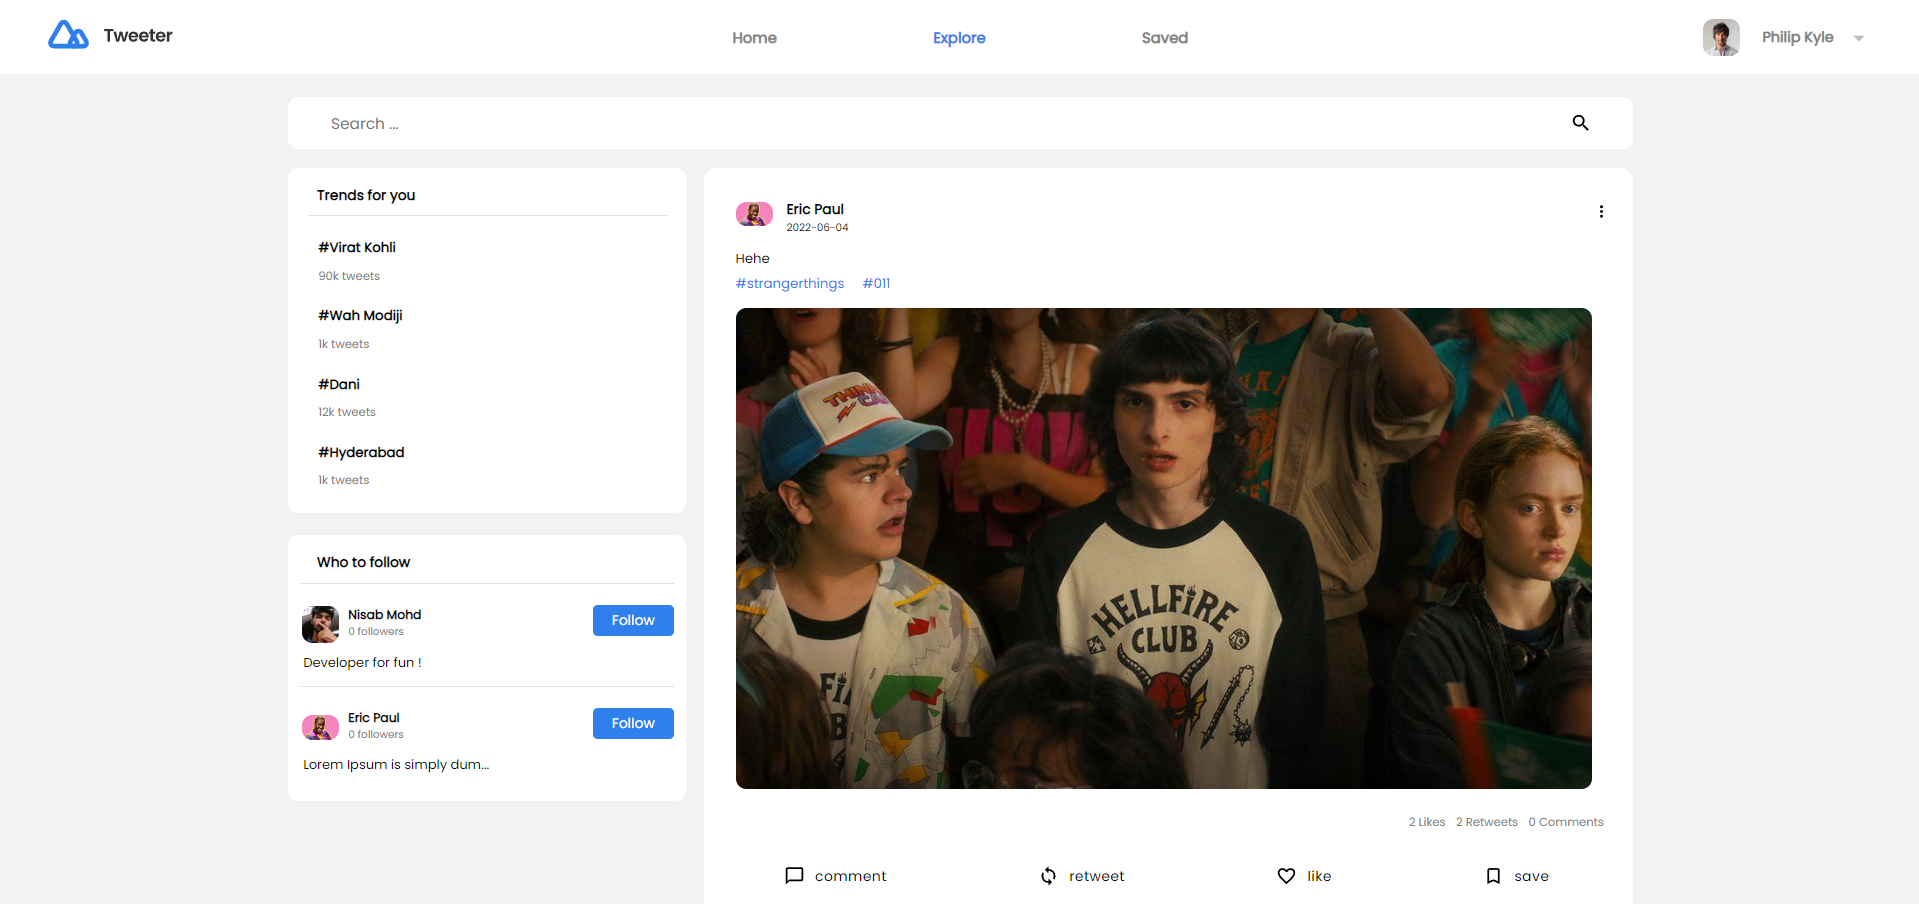
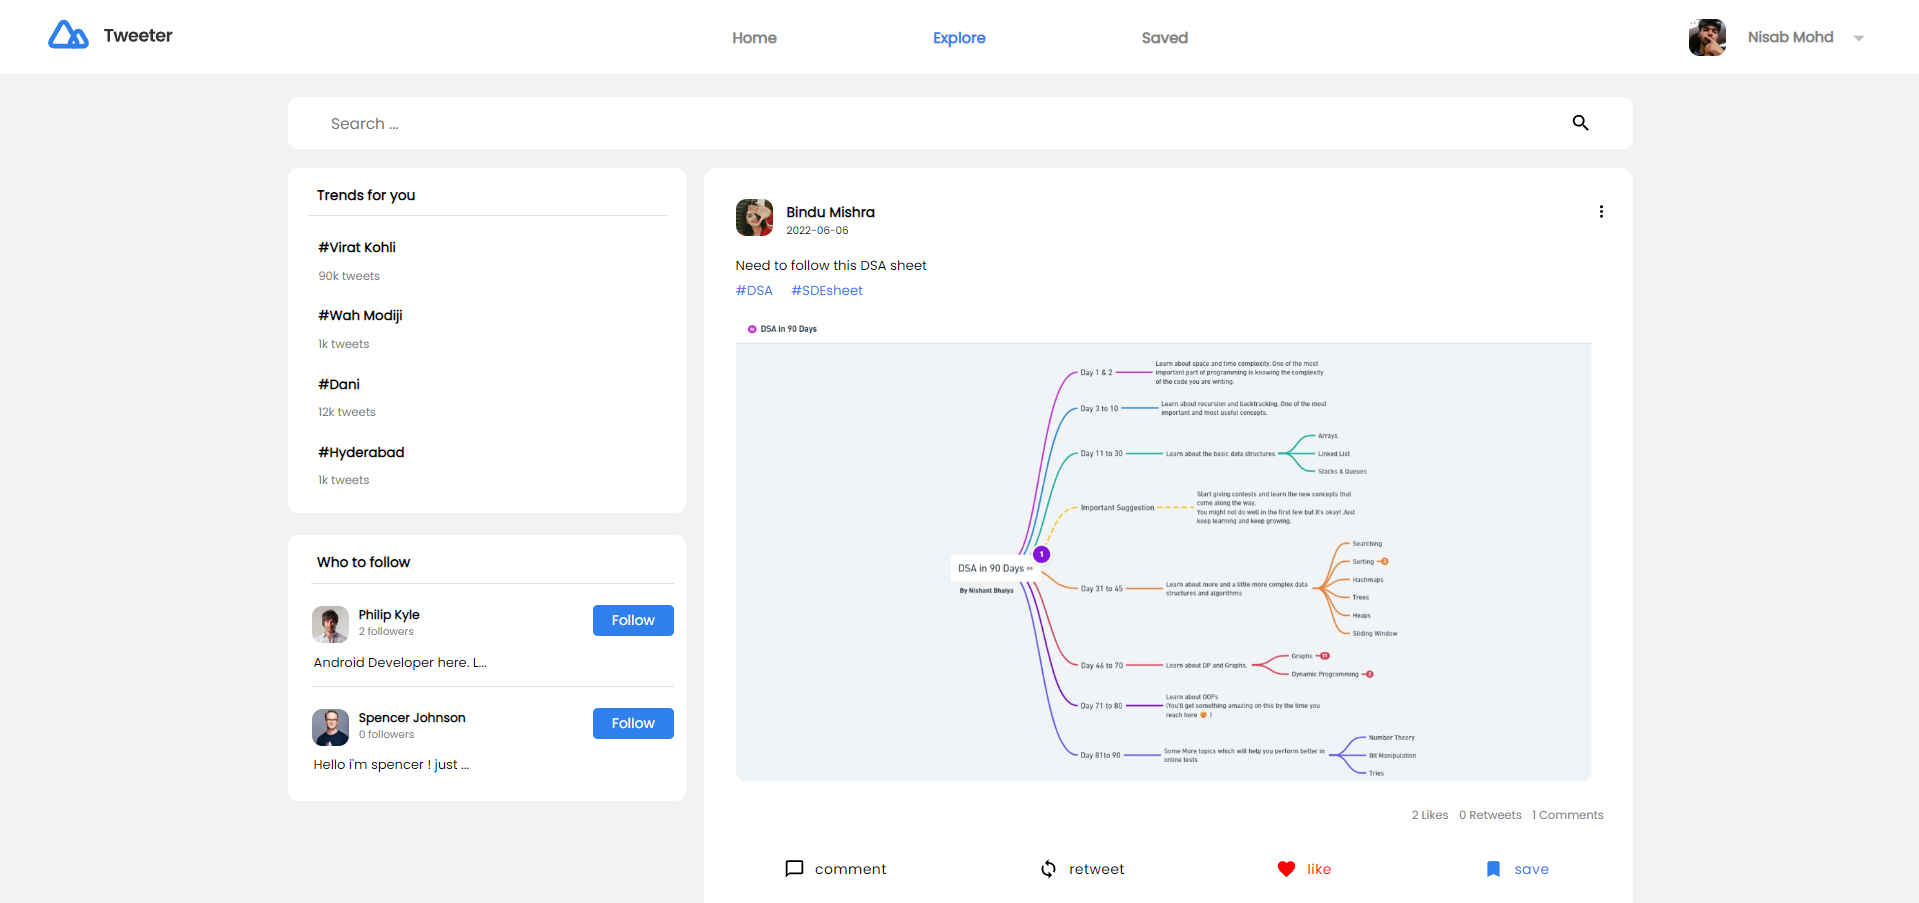
follow an dun follow directly from suggestions

diff --git a/app/client/src/pages/Profile.js b/app/client/src/pages/Profile.js
@@ -3,10 +3,28 @@ import Post from '../components/Post'
 import Tags from '../components/Tags'
 import { baseurl } from '../apicalls'
 import { Link } from 'react-router-dom'
-
+import { Dialog, DialogContent, DialogContentText } from '@mui/material'
+import Peoplecard from '../components/Peoplecard'
+import Followers from '../components/Followers'
 export default function Profile(props) {
     const [profile, setProfile] = useState(null)
     const [posts, setPosts] = useState([])
+    const [open, setOpen] = React.useState(false);
+    const [open1, setOpen1] = React.useState(false);
+    const handleClickOpen = () => {
+        setOpen(true);
+    };
+
+    const handleClose = () => {
+        setOpen(false);
+    };
+    const handleClickOpen1 = () => {
+        setOpen(true);
+    };
+
+    const handleClose1 = () => {
+        setOpen(false);
+    };
     useEffect(() => {
         async function getprofile() {
             const result = await fetch(`${baseurl}/user/${props.uid}`)
@@ -38,11 +56,37 @@ export default function Profile(props) {
                         <div className="namefoll" style={{ display: 'flex', flexDirection: 'row', alignItems: 'center', justifyContent: 'space-between' }} >
                             <div className="leftfolowers" style={{ display: 'flex', flexDirection: 'row', alignItems: 'center', justifyContent: 'space-evenly', width: '36%' }}>
                                 <h4 style={{}}>{profile?.username}</h4>
-                                <p style={{ fontSize: '11.785px', }}><span style={{ color: 'black', fontWeight: 'bold' }}>{profile?.following.length}</span> Following</p>
-                                <p style={{ fontSize: '11.985px', }}><span style={{ color: 'black', fontWeight: 'bold' }}>{profile?.followers.length}</span> Followers</p>
+                                <p onClick={handleClickOpen1} style={{ fontSize: '11.785px', cursor: 'pointer' }}><span style={{ color: 'black', fontWeight: 'bold' }}>{profile?.following.length}</span> Following</p>
+                                <Dialog
+                                    open={open1}
+                                    onClose={handleClose1}
+                                    aria-labelledby="alert-dialog-title"
+                                    aria-describedby="alert-dialog-description"
+                                >
+                                    <DialogContent>
+                                        <DialogContentText id="alert-dialog-description">
+                                            Followers
+                                        </DialogContentText>
+                                        <Followers></Followers>
+                                    </DialogContent>
+                                </Dialog>
+                                <p onClick={handleClickOpen} style={{ fontSize: '11.985px', cursor: 'pointer' }}><span style={{ color: 'black', fontWeight: 'bold' }}>{profile?.followers.length}</span> Followers</p>
+                                <Dialog
+                                    open={open}
+                                    onClose={handleClose}
+                                    aria-labelledby="alert-dialog-title"
+                                    aria-describedby="alert-dialog-description"
+                                >
+                                    <DialogContent>
+                                        <DialogContentText id="alert-dialog-description">
+                                            Following
+                                        </DialogContentText>
+                                        <Followers></Followers>
+                                    </DialogContent>
+                                </Dialog>
                             </div>
                             <div className="rightfollowbtn" style={{ marginRight: '19px' }}>
-                                <Link to={`/edit`} style={{textDecoration:'none',color:'inherit'}}><button style={{ backgroundColor: '#2F80ED', color: 'white', border: 'none', outline: 'none', height: '27px', width: '70px', cursor: 'pointer', borderRadius: '4px', fontFamily: 'Poppins', fontSize: '12px', marginTop: '-13px' }}>Edit</button></Link>
+                                <Link to={`/edit`} style={{ textDecoration: 'none', color: 'inherit' }}><button style={{ backgroundColor: '#2F80ED', color: 'white', border: 'none', outline: 'none', height: '27px', width: '70px', cursor: 'pointer', borderRadius: '4px', fontFamily: 'Poppins', fontSize: '12px', marginTop: '-13px' }}>Edit</button></Link>
                             </div>
                         </div>
                         <div className="caption" style={{ width: '98%' }}>
@@ -52,16 +96,16 @@ export default function Profile(props) {
                 </div>
             </div>
             <div className="container">
-                <div className="right_container" style={{ marginLeft: '0',marginRight:"20px" }}>
+                <div className="right_container" style={{ marginLeft: '0', marginRight: "20px" }}>
                     <Tags marginleft="0px" />
                 </div>
                 <div className="left_container" style={{}}>
                     <div className="posts ">
                         {
-                            (posts.length!==0)?
-                            posts.map(item => {
-                                return <Post likes={item.likes} comments={item.comments} retweets={item.retweet} postid={item.post_id}  hashtag={item.hashtag} uid={item.uid} date={item.timestamp.toLocaleString("en-US").slice(0, 10)}  key={item.post_id +item.likes.length+Math.floor(Math.random()*1000)} userimg={item.userimg} img={item.image} name={item.username} caption={item.caption} />
-                            }):<div className="paragraph"style={{width:'100%'}}><p style={{textAlign:'center'}}>No Posts to see</p></div>
+                            (posts.length !== 0) ?
+                                posts.map(item => {
+                                    return <Post likes={item.likes} comments={item.comments} retweets={item.retweet} postid={item.post_id} hashtag={item.hashtag} uid={item.uid} date={item.timestamp.toLocaleString("en-US").slice(0, 10)} key={item.post_id + item.likes.length + Math.floor(Math.random() * 1000)} userimg={item.userimg} img={item.image} name={item.username} caption={item.caption} />
+                                }) : <div className="paragraph" style={{ width: '100%' }}><p style={{ textAlign: 'center' }}>No Posts to see</p></div>
                         }
                     </div>
                 </div>

diff --git a/app/client/src/components/Peoplecard.js b/app/client/src/components/Peoplecard.js
@@ -1,0 +1,70 @@
+import React, { useEffect, useState } from 'react'
+import { Link } from 'react-router-dom'
+import { baseurl } from '../apicalls'
+
+export default function Peoplecard(props) {
+    const [doesfollow, setDoesfollow] = useState(false)
+    useEffect(() => {
+
+    }, [])
+    async function handlefollow() {
+        if (doesfollow) {
+            const data = {
+                uid: JSON.parse(localStorage.getItem('auth')).uid
+            }
+            fetch(`${baseurl}/user/unfollow/${props.uid}`, {
+                method: 'PUT',
+                headers: {
+                    'Content-Type': 'application/json',
+                },
+                body: JSON.stringify(data),
+            })
+                .then(response => response.json())
+                .then(data => {
+                    console.log(data);
+                    setDoesfollow(false)
+                })
+                .catch((error) => {
+                    console.error('Error:', error);
+                });
+
+        } else {
+            const data = {
+                uid: JSON.parse(localStorage.getItem('auth')).uid
+            }
+            fetch(`${baseurl}/user/follow/${props.uid}`, {
+                method: 'PUT',
+                headers: {
+                    'Content-Type': 'application/json',
+                },
+                body: JSON.stringify(data),
+            })
+                .then(response => response.json())
+                .then(data => {
+                    setDoesfollow(true)
+                })
+                .catch((error) => {
+                    console.error('Error:', error);
+                });
+        }
+    }
+    return (
+        <div key={props.uid} className="userfollow" style={{ borderTop: '1px solid #E0E0E0', marginLeft: '9px' }}>
+            <div className="header" style={{ display: 'flex', flexDirection: 'row', alignItems: 'center', marginTop: '19px' }}>
+                <div className="userimg">
+                    <Link to={`/user/${props.uid}`}><img style={{ width: '32px', borderRadius: '9px', marginLeft: '2.8%' }} src={props.userimg} alt="" /></Link>
+                </div>
+                <div className="username">
+                    <h6 style={{ marginLeft: '9px', marginTop: '-0px' }}><Link to={`/user/${props.uid}`} style={{ textDecoration: 'none', color: 'inherit' }}>{props.username}</Link></h6>
+                    <p style={{ fontSize: '9px', marginTop: '-25px', marginLeft: '9px', color: '#828282' }}>{props.followers.length} followers</p>
+                </div>
+                <button onClick={()=>handlefollow()} style={{ backgroundColor: '#2F80ED', color: 'white', border: 'none', outline: 'none', height: '27px', width: '70px', cursor: 'pointer', borderRadius: '4px', fontFamily: 'Poppins', fontSize: '12px', marginLeft: 'auto', marginTop: '-13px' }}>{
+                    doesfollow ? "Unfollow" : "Follow"
+                }</button>
+            </div>
+            <div className="bio">
+                <p style={{ fontSize: "11.25px", marginTop: '2px', marginLeft: '2px' }}>{props.bio.length > 25 ? props.bio.slice(0, 25) + "..." : props.bio}</p>
+            </div>
+        </div>
+    )
+}

diff --git a/app/client/src/components/Whotofollow.js b/app/client/src/components/Whotofollow.js
@@ -1,6 +1,7 @@
 import React, { useEffect, useState } from 'react'
 import { baseurl } from '../apicalls'
 import { Link } from 'react-router-dom'
+import Peoplecard from './Peoplecard'
 
 export default function Whotofollow(props) {
     const [users, setUsers] = useState([])
@@ -20,21 +21,7 @@ export default function Whotofollow(props) {
             </div>
             {
                 users.map(item => {
-                    return <div key={item.uid} className="userfollow" style={{ borderTop: '1px solid #E0E0E0',marginLeft:'9px' }}>
-                        <div className="header" style={{ display: 'flex', flexDirection: 'row', alignItems: 'center', marginTop: '19px' }}>
-                            <div className="userimg">
-                                <Link to={`/user/${item.uid}`}><img style={{ width: '32px', borderRadius: '9px', marginLeft: '2.8%' }} src={item.userimg} alt="" /></Link>
-                            </div>
-                            <div className="username">
-                                <h6 style={{ marginLeft: '9px', marginTop: '-0px' }}><Link to={`/user/${item.uid}`} style={{ textDecoration: 'none', color: 'inherit' }}>{item.username}</Link></h6>
-                                <p style={{ fontSize: '9px', marginTop: '-25px', marginLeft: '9px', color: '#828282' }}>{item.followers.length} followers</p>
-                            </div>
-                            {/* <button style={{ backgroundColor: '#2F80ED', color: 'white', border: 'none', outline: 'none', height: '27px', width: '70px', cursor: 'pointer', borderRadius: '4px', fontFamily: 'Poppins', fontSize: '12px', marginLeft: 'auto', marginTop: '-13px' }}>view</button> */}
-                        </div>
-                        <div className="bio">
-                            <p style={{ fontSize: "11.25px", marginTop: '2px', marginLeft: '2px' }}>{item.bio.length > 25 ? item.bio.slice(0, 25) + "..." : item.bio}</p>
-                        </div>
-                    </div>
+                    return <Peoplecard username={item.username} uid={item.uid} userimg={item.userimg} followers={item.followers} bio={item.bio} />
                 })
             }
         </div >:<></>

diff --git a/app/client/src/pages/Specificuser.js b/app/client/src/pages/Specificuser.js
@@ -118,10 +118,11 @@ export default function Specificuser() {
                 </div>
                 <div className="left_container" style={{ marginLeft: '20px' }}>
                     <div className="posts">
-                        {
+                    {
+                            (posts.length!==0)?
                             posts.map(item => {
-                                return <Post likes={item.likes} comments={item.comments} retweets={item.retweet} postid={item.post_id} hashtag={item.hashtag} uid={item.uid} date={item.timestamp.toLocaleString("en-US").slice(0, 10)}  key={item.post_id +item.likes.length+Math.floor(Math.random()*1000)} userimg={item.userimg} img={item.image} name={item.username} caption={item.caption} />
-                            })
+                                return <Post likes={item.likes} comments={item.comments} retweets={item.retweet} postid={item.post_id}  hashtag={item.hashtag} uid={item.uid} date={item.timestamp.toLocaleString("en-US").slice(0, 10)}  key={item.post_id +item.likes.length+Math.floor(Math.random()*1000)} userimg={item.userimg} img={item.image} name={item.username} caption={item.caption} />
+                            }):<div className="paragraph"style={{width:'100%'}}><p style={{textAlign:'center'}}>No Posts to see</p></div>
                         }
                     </div>
                 </div>

diff --git a/app/client/src/components/Comment.js b/app/client/src/components/Comment.js
@@ -18,10 +18,10 @@ export default function Comment(props) {
             <div className="user" style={{ display: 'flex', flexDirection: 'row', alignItems: 'center', marginTop: '15px' }}>
                 <Link to={`/user/${props.uid}`} style={{ marginLeft: '2%' }}><img style={{ width: '32px', borderRadius: '9px' }} src={user?.userimg} alt="" /></Link>
                 <div className="timeuser" style={{ display: 'flex', flexDirection: 'column', }}>
-                    <h6 style={{ fontSize: '12px', margin: '0', marginLeft: '12px', width: 'fit-content' ,marginTop:'-15px'}}><Link to={`/user/${user?.uid}`} style={{ textDecoration: 'none', color: 'inherit' }}>{user?.username}</Link></h6>
+                    <h6 style={{ fontSize: '12px', margin: '0', marginLeft: '12px', width: 'fit-content' ,marginTop:'-19px'}}><Link to={`/user/${user?.uid}`} style={{ textDecoration: 'none', color: 'inherit' }}>{user?.username}</Link></h6>
                 </div>
             </div>
-            <p style={{ marginLeft: '67.5px', fontSize: '11.5px',marginTop:'-15px' }}>{props.comment}</p>
+            <p style={{ marginLeft: '67.5px', fontSize: '11.5px',marginTop:'-17px' }}>{props.comment}</p>
         </div>
     )
 }

diff --git a/app/client/src/components/Followers.js b/app/client/src/components/Followers.js
@@ -1,0 +1,9 @@
+import React from 'react'
+import Peoplecard from './Peoplecard'
+
+export default function Followers(props) {
+  return (
+    // <Peoplecard /> 
+   <p> Lorem ipsum dolor sit amet consectetur adipisicing elit. Asperiores esse rerum a cumque dolor, aliquid laboriosam pariatur fugiat eveniet cum culpa dolores fugit deserunt ea distinctio ipsum, minus vitae suscipit nobis sequi, animi ipsam quibusdam odio perspiciatis. Facere veritatis, omnis dolores ratione cupiditate exercitationem odit.</p>
+  )
+}
